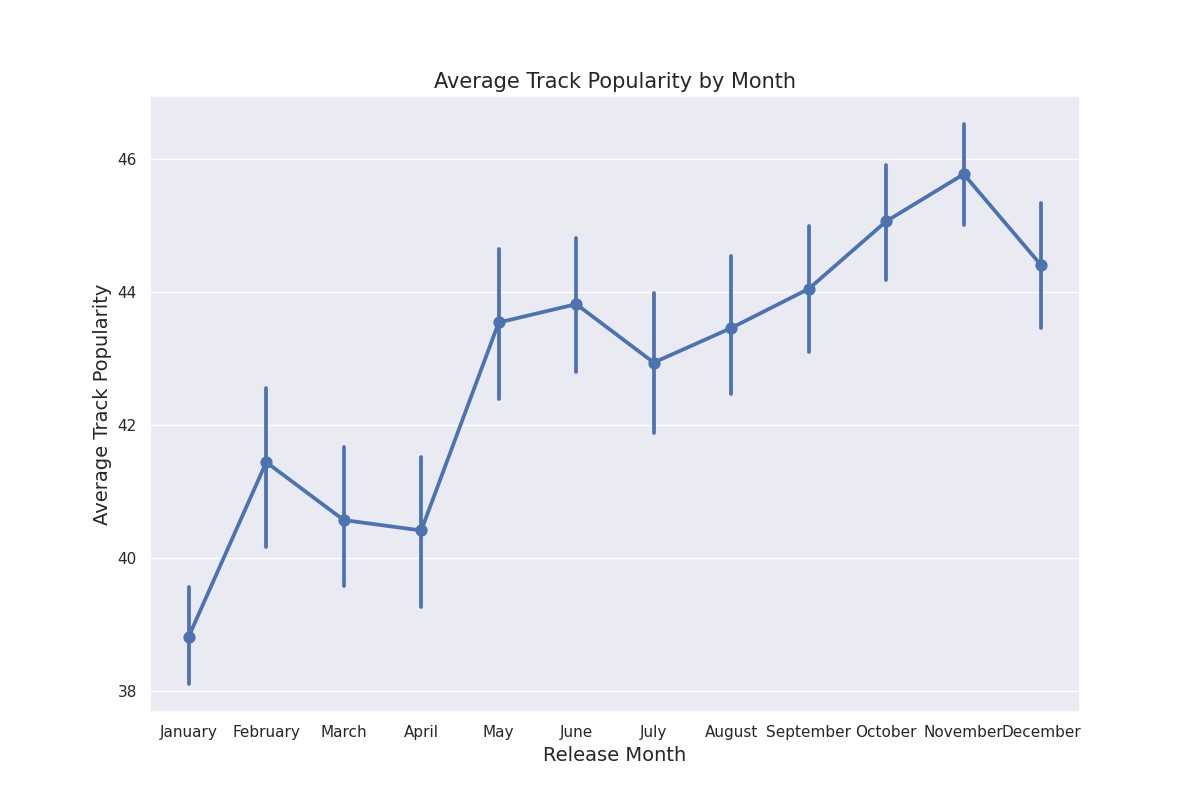
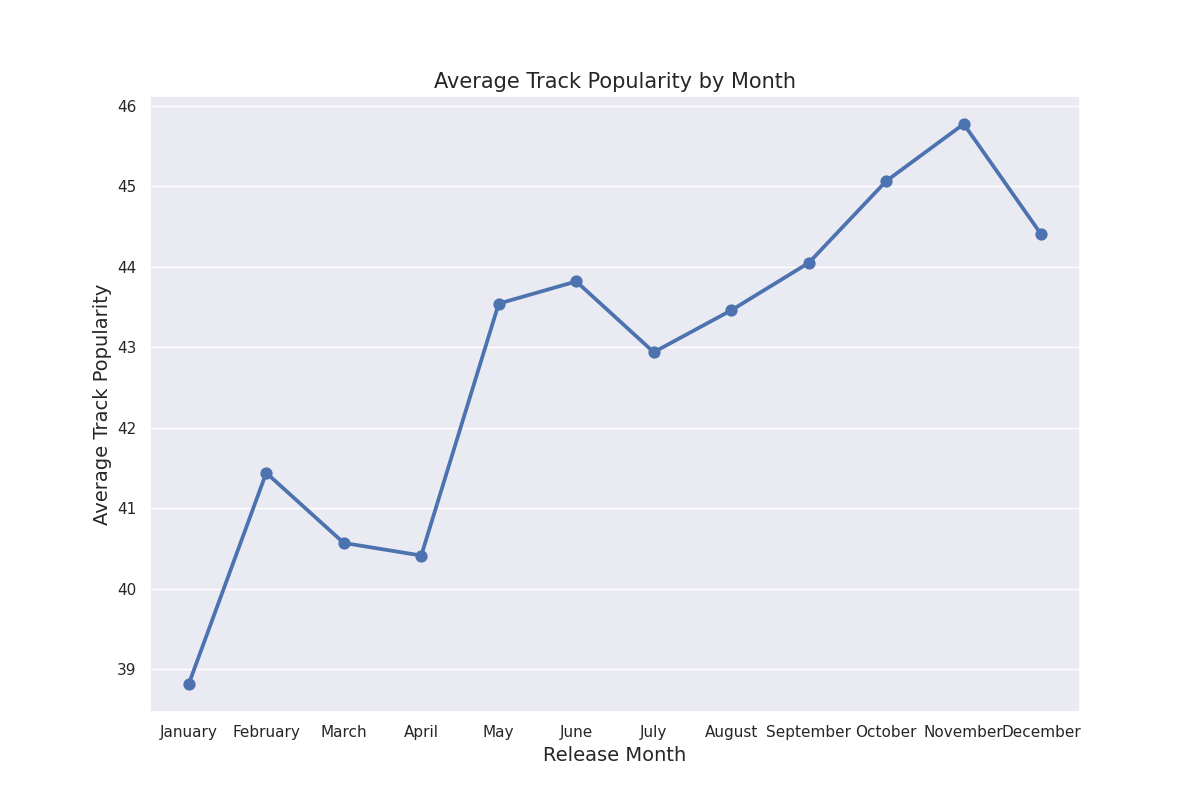
update .py

diff --git a/app.py b/app.py
@@ -1,8 +1,12 @@
 from fastapi import FastAPI, Request
 from fastapi.staticfiles import StaticFiles
 from fastapi.templating import Jinja2Templates
+from fastapi.responses import HTMLResponse
 import pandas as pd
-from mylib.lib import find_most_popular_song, genre_count, genre_popularity
+from mylib.lib import (
+    plot_popularity, genre_count, find_most_popular_genre, 
+    month_popularity, find_highest_popularity_track
+)
 
 # Initialize the FastAPI app
 app = FastAPI()
@@ -23,12 +27,18 @@ async def read_root(request: Request):
 
 @app.get("/most_popular_song")
 def get_most_popular_song():
-    song = find_most_popular_song(spotify_data)
+    song = find_highest_popularity_track(spotify_data)
     return {"most_popular_song": song}
 
-@app.get("/genre_count")
-def get_genre_count():
-    count = genre_count(spotify_data)
-    return {"genre_count": count}
+@app.get("/most_popular_genre")
+def get_most_popular_genre():
+    genre = find_most_popular_genre(spotify_data)  # This function needs to be implemented in lib.py
+    return {"most_popular_genre": genre}
+
+@app.get("/popularity_trends_by_month")
+def get_popularity_trends_by_month():
+    trends = month_popularity(spotify_data)
+    # Convert DataFrame to JSON-friendly format
+    return trends.to_dict('records')
 
 # Add other endpoints as necessary

diff --git a/mylib/lib.py b/mylib/lib.py
@@ -39,13 +39,24 @@ def month_popularity(data):
         'July', 'August', 'September', 'October', 'November', 'December'
     ]
 
+    # Calculate the average popularity for each month
+    avg_popularity_by_month = data.groupby('release_month')['track_popularity'].mean().reindex(month_order)
+    
+    # Plotting
     plt.figure(figsize=(12, 8))
-    sns.pointplot(x='release_month', y='track_popularity', data=data, estimator=mean, order=month_order)
+    sns.pointplot(x=avg_popularity_by_month.index, y=avg_popularity_by_month.values, order=month_order)
     plt.xlabel('Release Month', fontsize=14)
     plt.ylabel('Average Track Popularity', fontsize=14)
     plt.title('Average Track Popularity by Month', fontsize=15)
     plt.savefig('monthly_popularity.png')
     plt.close()
+
+    # Convert the result to a DataFrame for return
+    popularity_trends = avg_popularity_by_month.reset_index()
+    popularity_trends.columns = ['Release Month', 'Average Popularity']
+
+    return popularity_trends
+
 
 def find_highest_popularity_track(data):
     max_popularity = data['track_popularity'].max()

diff --git a/main.py b/main.py
@@ -1,6 +1,6 @@
-from mylib.lib import plot_popularity,genre_count,genre_popularity,month_popularity, find_highest_popularity_track
+from mylib.lib import (plot_popularity,genre_count,genre_popularity,
+                       month_popularity, find_highest_popularity_track)
 import pandas as pd
-import matplotlib.pyplot as plt
 
 def main():
     spotify = pd.read_csv("spotify_songs.csv")
